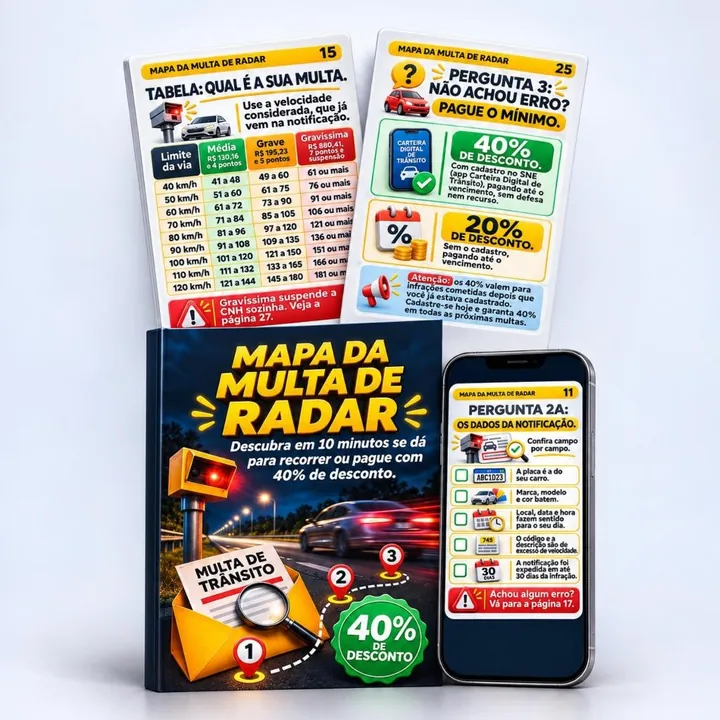
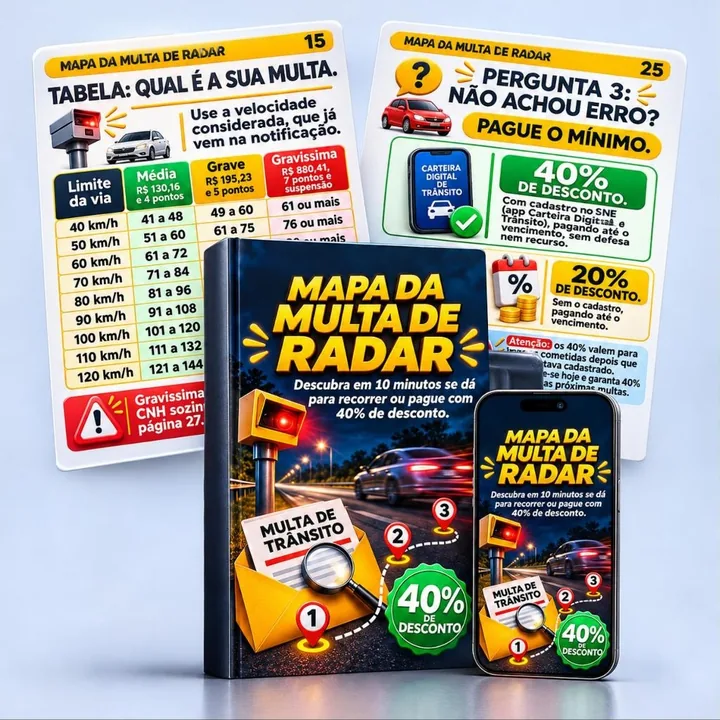
3 bônus, mockup novo, capa no Básico e garantia redesenhada
Claude-Session: https://claude.ai/code/session_013m6zLxzqqgeCHQgghX7v9o

diff --git a/index.html b/index.html
@@ -109,10 +109,12 @@ body:not(.ready) .track{animation:none}
 .tag{display:table;margin:0 auto 8px;background:var(--n);color:var(--y);font-weight:800;font-size:12px;letter-spacing:.06em;text-transform:uppercase;padding:5px 12px;border-radius:99px}
 
 /* bônus */
-.bon{display:grid;gap:20px;margin-top:26px;align-items:center;max-width:920px;margin-left:auto;margin-right:auto}
-@media (min-width:820px){.bon{grid-template-columns:1fr 1fr}}
-.bon img{border-radius:16px;width:min(420px,88vw);margin:0 auto}
-.bon .bx{background:var(--ice);border:2px dashed var(--y);border-radius:18px;padding:20px}
+.bonsec{background:linear-gradient(180deg,#fff 0,#FFF8E6 100%)}
+.bon{display:grid;gap:22px;margin-top:28px;max-width:960px;margin-left:auto;margin-right:auto}
+.bitem{display:grid;gap:14px;align-items:center;background:#fff;border:2px solid #FFE3A0;border-radius:22px;padding:16px;box-shadow:0 10px 30px rgba(14,27,44,.07)}
+@media (min-width:820px){.bitem{grid-template-columns:1fr 1fr;padding:22px}.bitem:nth-child(2) img{order:2}}
+.bitem img{border-radius:14px;width:min(420px,100%);margin:0 auto}
+.bon .bx{padding:4px 4px 6px}
 .bon .bx .bt{display:inline-block;background:var(--g);color:#fff;font-weight:800;font-size:12px;letter-spacing:.06em;text-transform:uppercase;padding:4px 10px;border-radius:99px}
 .bon h3{font-size:22px;font-weight:800;color:var(--n);margin:8px 0 6px;line-height:1.2}
 .bon p{font-size:15.5px;color:var(--tx)}
@@ -120,7 +122,7 @@ body:not(.ready) .track{animation:none}
 .bon li{display:flex;gap:8px;font-size:15px}
 .bon li svg{flex:none;color:var(--g);margin-top:2px}
 .bon .val{margin-top:12px;font-size:14px;color:var(--mu)}
-.bon .val s{color:var(--r)}
+.bon .val s{color:var(--r)}.bon .val b{color:#13924f}
 
 /* planos */
 .planos{background:var(--n);color:#fff}
@@ -145,23 +147,28 @@ body:not(.ready) .track{animation:none}
 .bas{background:#e9ecf0;color:#6b7480;filter:grayscale(1);opacity:.92}
 .bas h3,.bas .pre{color:#6b7480}
 .bas .pre{font-size:40px}
+.bas .bcp{width:110px;margin:10px auto 2px;border-radius:8px;filter:grayscale(1) blur(1.5px);opacity:.45}
 .bas .btn2{display:block;text-align:center;text-decoration:none;background:#c3c9d1;color:#4d5560;font-weight:800;padding:14px;border-radius:12px;font-size:15px;text-transform:uppercase}
 .selo{display:flex;align-items:center;justify-content:center;gap:8px;margin-top:14px;font-size:13px;color:var(--mu);font-weight:600}
 .pay{text-align:center;font-size:13px;color:#c9d3e0;margin-top:18px}
 
 /* garantia e acesso */
-.gar .gbox{max-width:760px;margin:0 auto;display:flex;gap:18px;align-items:center;background:var(--ice);border-radius:20px;padding:22px;border:2px solid #e3e8ef}
-.gar .gs{flex:none;width:96px;height:96px;border-radius:50%;background:var(--g);color:#fff;display:grid;place-items:center;text-align:center;font-weight:800;line-height:1;box-shadow:0 0 0 6px #d6f3e4}
-.gar .gs b{font-size:34px;display:block}.gar .gs span{font-size:12px}
-.gar h3{font-size:20px;font-weight:800;color:var(--n)}
-.gar p{font-size:15.5px;margin-top:6px}
-@media (max-width:520px){.gar .gbox{flex-direction:column;text-align:center}}
-.ac{display:grid;gap:12px;margin-top:24px;max-width:860px;margin-left:auto;margin-right:auto}
+.gar{background:linear-gradient(180deg,#fff 0,var(--ice) 100%)}
+.gar .gbox{max-width:820px;margin:0 auto;display:flex;gap:22px;align-items:center;background:linear-gradient(135deg,#0E1B2C 0,#1b3354 100%);color:#fff;border-radius:24px;padding:26px 28px;box-shadow:0 18px 40px rgba(14,27,44,.25);position:relative;overflow:hidden}
+.gar .gbox:after{content:'';position:absolute;right:-60px;top:-60px;width:220px;height:220px;border-radius:50%;background:radial-gradient(circle,rgba(255,200,61,.22),transparent 70%)}
+.gar .gselo{flex:none;width:150px;filter:drop-shadow(0 10px 18px rgba(0,0,0,.35))}
+.gar .gk{display:inline-block;background:var(--y);color:var(--n);font-weight:800;font-size:12px;letter-spacing:.06em;text-transform:uppercase;padding:4px 10px;border-radius:99px}
+.gar h3{font-size:23px;font-weight:800;color:#fff;margin:8px 0 6px;line-height:1.2}
+.gar .gtx p{font-size:15.5px;color:#d6dfeb}
+@media (max-width:560px){.gar .gbox{flex-direction:column;text-align:center;padding:24px 20px}.gar .gselo{width:140px}}
+.ach{margin-top:46px}
+.ac{display:grid;gap:14px;margin-top:24px;max-width:900px;margin-left:auto;margin-right:auto;counter-reset:p}
 @media (min-width:760px){.ac{grid-template-columns:repeat(3,1fr)}}
-.ac div{background:#fff;border:1px solid #e3e8ef;border-radius:14px;padding:16px;text-align:center}
-.ac b{display:grid;place-items:center;margin:0 auto 8px;width:38px;height:38px;border-radius:50%;background:var(--y);color:var(--n);font-size:17px}
-.ac h3{font-size:16px;color:var(--n);font-weight:800}
-.ac p{font-size:14px;color:var(--mu);margin-top:4px}
+.ac div{background:#fff;border:2px solid #e3e8ef;border-radius:20px;padding:18px 16px 20px;text-align:center;position:relative;box-shadow:0 8px 24px rgba(14,27,44,.06)}
+.ac img{width:110px;margin:0 auto 6px}
+.ac b{position:absolute;top:14px;left:14px;display:grid;place-items:center;width:34px;height:34px;border-radius:50%;background:var(--y);color:var(--n);font-size:16px;font-weight:800;box-shadow:0 3px 0 #d9a21a}
+.ac h3{font-size:17px;color:var(--n);font-weight:800}
+.ac p{font-size:14.5px;color:var(--mu);margin-top:4px}
 
 /* faq */
 .faq{background:var(--ice)}
@@ -308,22 +315,40 @@ footer p{max-width:720px;margin:8px auto 0}
  </div>
 </section>
 
-<section>
+<section class="bonsec">
  <div class="w">
-  <span class="tag">Bônus do plano Completo</span>
-  <h2>Painel CNH em Dia</h2>
+  <span class="tag">Só no plano Completo</span>
+  <h2>Você ainda leva <em>3 bônus</em></h2>
   <div class="bon">
-   <img class="rv fade" src="img/bonus.webp" width="720" height="540" alt="Planilha Painel CNH em Dia aberta no notebook e no celular" loading="lazy" decoding="async">
-   <div class="bx rv">
-    <span class="bt">Planilha pronta</span>
-    <h3>Todas as suas multas num lugar só</h3>
-    <p>Você anota a data, o limite da via e a velocidade da notificação. A planilha faz o resto.</p>
-    <ul>
-     <li><svg width="18" height="18" viewBox="0 0 24 24" fill="none" stroke="currentColor" stroke-width="3" stroke-linecap="round"><path d="M20 6 9 17l-5-5"/></svg>Calcula a gravidade, os pontos e o valor de cada multa</li>
-     <li><svg width="18" height="18" viewBox="0 0 24 24" fill="none" stroke="currentColor" stroke-width="3" stroke-linecap="round"><path d="M20 6 9 17l-5-5"/></svg>Soma os pontos dos últimos 12 meses e mostra o seu limite</li>
-     <li><svg width="18" height="18" viewBox="0 0 24 24" fill="none" stroke="currentColor" stroke-width="3" stroke-linecap="round"><path d="M20 6 9 17l-5-5"/></svg>Avisa quando você passa de 20, 30 ou 40 pontos</li>
-     <li><svg width="18" height="18" viewBox="0 0 24 24" fill="none" stroke="currentColor" stroke-width="3" stroke-linecap="round"><path d="M20 6 9 17l-5-5"/></svg>Marca em vermelho o prazo de defesa que vence em 7 dias</li>
-    </ul>
+   <div class="bitem rv">
+    <img class="fade" src="img/bonus.webp" width="720" height="540" alt="Painel CNH em Dia" loading="lazy" decoding="async">
+    <div class="bx">
+     <span class="bt">Bônus 1</span>
+     <h3>Painel CNH em Dia</h3>
+     <p>Planilha pronta: você anota a data, o limite da via e a velocidade da notificação, e ela faz o resto.</p>
+     <ul><li><svg width="18" height="18" viewBox="0 0 24 24" fill="none" stroke="currentColor" stroke-width="3" stroke-linecap="round"><path d="M20 6 9 17l-5-5"/></svg>Calcula a gravidade, os pontos e o valor de cada multa</li><li><svg width="18" height="18" viewBox="0 0 24 24" fill="none" stroke="currentColor" stroke-width="3" stroke-linecap="round"><path d="M20 6 9 17l-5-5"/></svg>Soma os pontos dos últimos 12 meses e mostra o seu limite</li><li><svg width="18" height="18" viewBox="0 0 24 24" fill="none" stroke="currentColor" stroke-width="3" stroke-linecap="round"><path d="M20 6 9 17l-5-5"/></svg>Avisa quando você passa de 20, 30 ou 40 pontos</li><li><svg width="18" height="18" viewBox="0 0 24 24" fill="none" stroke="currentColor" stroke-width="3" stroke-linecap="round"><path d="M20 6 9 17l-5-5"/></svg>Marca em vermelho o prazo de defesa que vence em 7 dias</li></ul>
+     <p class="val">Valor: <s>R$ 27</s> <b>grátis no plano Completo</b></p>
+    </div>
+   </div>
+   <div class="bitem rv">
+    <img class="fade" src="img/bonus2.webp" width="720" height="540" alt="Modelos de Defesa Editáveis" loading="lazy" decoding="async">
+    <div class="bx">
+     <span class="bt">Bônus 2</span>
+     <h3>Modelos de Defesa Editáveis</h3>
+     <p>Os modelos do Mapa num arquivo de Word, para você preencher no celular ou no computador e enviar.</p>
+     <ul><li><svg width="18" height="18" viewBox="0 0 24 24" fill="none" stroke="currentColor" stroke-width="3" stroke-linecap="round"><path d="M20 6 9 17l-5-5"/></svg>4 modelos de defesa prévia, um para cada erro</li><li><svg width="18" height="18" viewBox="0 0 24 24" fill="none" stroke="currentColor" stroke-width="3" stroke-linecap="round"><path d="M20 6 9 17l-5-5"/></svg>1 modelo de recurso à JARI para quando a defesa for negada</li><li><svg width="18" height="18" viewBox="0 0 24 24" fill="none" stroke="currentColor" stroke-width="3" stroke-linecap="round"><path d="M20 6 9 17l-5-5"/></svg>Campos em amarelo mostram exatamente o que trocar</li></ul>
+     <p class="val">Valor: <s>R$ 27</s> <b>grátis no plano Completo</b></p>
+    </div>
+   </div>
+   <div class="bitem rv">
+    <img src="img/bonus3.webp" width="720" height="540" alt="Cartão de Bolso do Radar" loading="lazy" decoding="async">
+    <div class="bx">
+     <span class="bt">Bônus 3</span>
+     <h3>Cartão de Bolso do Radar</h3>
+     <p>Uma página com tudo o que importa, para salvar no celular ou imprimir e deixar no porta-luvas.</p>
+     <ul><li><svg width="18" height="18" viewBox="0 0 24 24" fill="none" stroke="currentColor" stroke-width="3" stroke-linecap="round"><path d="M20 6 9 17l-5-5"/></svg>Tolerância e tabela de gravidade</li><li><svg width="18" height="18" viewBox="0 0 24 24" fill="none" stroke="currentColor" stroke-width="3" stroke-linecap="round"><path d="M20 6 9 17l-5-5"/></svg>Todos os prazos e os dois descontos</li><li><svg width="18" height="18" viewBox="0 0 24 24" fill="none" stroke="currentColor" stroke-width="3" stroke-linecap="round"><path d="M20 6 9 17l-5-5"/></svg>Limite de pontos em 12 meses, com e sem EAR</li></ul>
+     <p class="val">Valor: <s>R$ 17</s> <b>grátis no plano Completo</b></p>
+    </div>
    </div>
   </div>
  </div>
@@ -345,7 +370,7 @@ footer p{max-width:720px;margin:8px auto 0}
      <li><svg width="19" height="19" viewBox="0 0 24 24" fill="none" stroke="#22B573" stroke-width="3" stroke-linecap="round"><path d="M20 6 9 17l-5-5"/></svg><span><b>Mapa da Multa de Radar</b>, 28 páginas</span></li>
      <li><svg width="19" height="19" viewBox="0 0 24 24" fill="none" stroke="#22B573" stroke-width="3" stroke-linecap="round"><path d="M20 6 9 17l-5-5"/></svg><span>4 modelos de defesa prévia prontos</span></li>
      <li><svg width="19" height="19" viewBox="0 0 24 24" fill="none" stroke="#22B573" stroke-width="3" stroke-linecap="round"><path d="M20 6 9 17l-5-5"/></svg><span>Passo a passo do desconto de 40%</span></li>
-     <li><svg width="19" height="19" viewBox="0 0 24 24" fill="none" stroke="#22B573" stroke-width="3" stroke-linecap="round"><path d="M20 6 9 17l-5-5"/></svg><span><b>Bônus:</b> planilha Painel CNH em Dia</span></li>
+     <li><svg width="19" height="19" viewBox="0 0 24 24" fill="none" stroke="#22B573" stroke-width="3" stroke-linecap="round"><path d="M20 6 9 17l-5-5"/></svg><span><b>Bônus 1:</b> planilha Painel CNH em Dia</span></li><li><svg width="19" height="19" viewBox="0 0 24 24" fill="none" stroke="#22B573" stroke-width="3" stroke-linecap="round"><path d="M20 6 9 17l-5-5"/></svg><span><b>Bônus 2:</b> Modelos de Defesa Editáveis</span></li><li><svg width="19" height="19" viewBox="0 0 24 24" fill="none" stroke="#22B573" stroke-width="3" stroke-linecap="round"><path d="M20 6 9 17l-5-5"/></svg><span><b>Bônus 3:</b> Cartão de Bolso do Radar</span></li>
      <li><svg width="19" height="19" viewBox="0 0 24 24" fill="none" stroke="#22B573" stroke-width="3" stroke-linecap="round"><path d="M20 6 9 17l-5-5"/></svg><span>Garantia de 30 dias</span></li>
     </ul>
     <a class="btn" data-plano="completo" href="#planos">Quero o plano Completo</a>
@@ -353,10 +378,11 @@ footer p{max-width:720px;margin:8px auto 0}
    </div>
    <div class="card bas">
     <h3>Plano Básico</h3>
+    <img class="bcp" src="img/capa.webp" width="560" height="840" alt="Capa do Mapa da Multa de Radar" loading="lazy" decoding="async">
     <div class="pre"><small>R$</small>27</div>
     <ul>
      <li><svg width="19" height="19" viewBox="0 0 24 24" fill="none" stroke="#8a929c" stroke-width="3" stroke-linecap="round"><path d="M20 6 9 17l-5-5"/></svg><span>Mapa da Multa de Radar</span></li>
-     <li><svg width="19" height="19" viewBox="0 0 24 24" fill="none" stroke="#b1b7bf" stroke-width="3" stroke-linecap="round"><path d="M18 6 6 18M6 6l12 12"/></svg><span>Sem a planilha Painel CNH em Dia</span></li>
+     <li><svg width="19" height="19" viewBox="0 0 24 24" fill="none" stroke="#b1b7bf" stroke-width="3" stroke-linecap="round"><path d="M18 6 6 18M6 6l12 12"/></svg><span>Sem os 3 bônus</span></li>
     </ul>
     <a class="btn2" data-plano="basico" href="#planos">Quero só o Básico</a>
    </div>
@@ -368,17 +394,18 @@ footer p{max-width:720px;margin:8px auto 0}
 <section class="gar">
  <div class="w">
   <div class="gbox rv">
-   <div class="gs"><div><b>30</b><span>dias de<br>garantia</span></div></div>
-   <div>
-    <h3>Garantia de 30 dias</h3>
-    <p>Abra o Mapa, use com a sua notificação e, se achar que não valeu, peça o seu dinheiro de volta em até 30 dias. Sem pergunta e sem burocracia.</p>
+   <img class="gselo" src="img/selo.webp" width="400" height="400" alt="Selo de garantia de 30 dias" loading="lazy" decoding="async">
+   <div class="gtx">
+    <span class="gk">Risco zero</span>
+    <h3>Garantia incondicional de 30 dias</h3>
+    <p>Abra o Mapa, use com a sua notificação e, se achar que não valeu, peça o seu dinheiro de volta em até 30 dias. Você recebe 100% do valor, sem pergunta e sem burocracia.</p>
    </div>
   </div>
-  <h2 style="margin-top:40px">Como você recebe o Mapa</h2>
+  <h2 class="ach">Como você recebe o Mapa</h2>
   <div class="ac">
-   <div class="rv"><b>1</b><h3>Faça o pagamento</h3><p>Pix ou cartão, na página segura.</p></div>
-   <div class="rv"><b>2</b><h3>Abra o seu e-mail</h3><p>O acesso chega logo depois da compra.</p></div>
-   <div class="rv"><b>3</b><h3>Pegue a notificação</h3><p>Abra o Mapa no celular e responda as 3 perguntas.</p></div>
+   <div class="rv"><img src="img/passo1.webp" width="300" height="300" alt="" loading="lazy" decoding="async"><b>1</b><h3>Faça o pagamento</h3><p>Pix ou cartão, numa página segura.</p></div>
+   <div class="rv"><img src="img/passo2.webp" width="300" height="300" alt="" loading="lazy" decoding="async"><b>2</b><h3>Abra o seu e-mail</h3><p>O acesso chega logo depois da compra.</p></div>
+   <div class="rv"><img src="img/passo3.webp" width="300" height="300" alt="" loading="lazy" decoding="async"><b>3</b><h3>Pegue a notificação</h3><p>Abra o Mapa no celular e responda as 3 perguntas.</p></div>
   </div>
  </div>
 </section>
